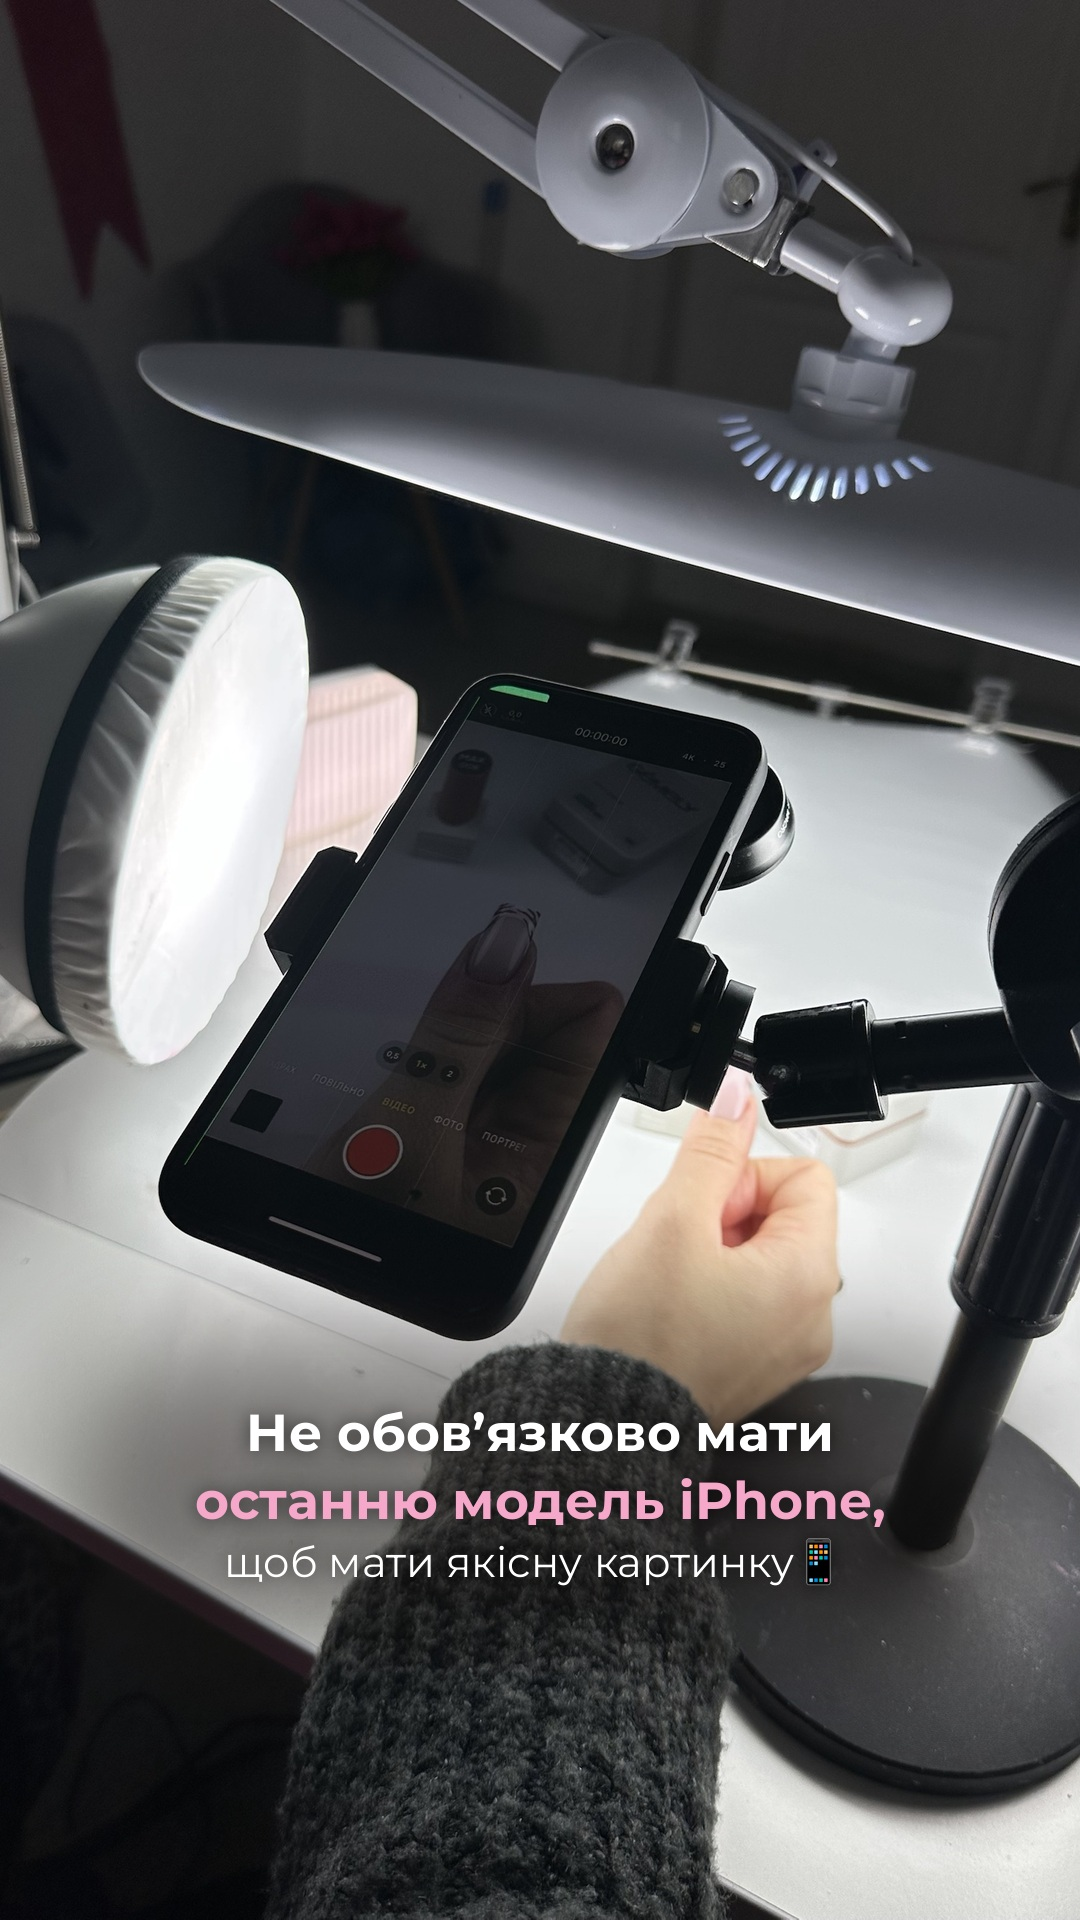
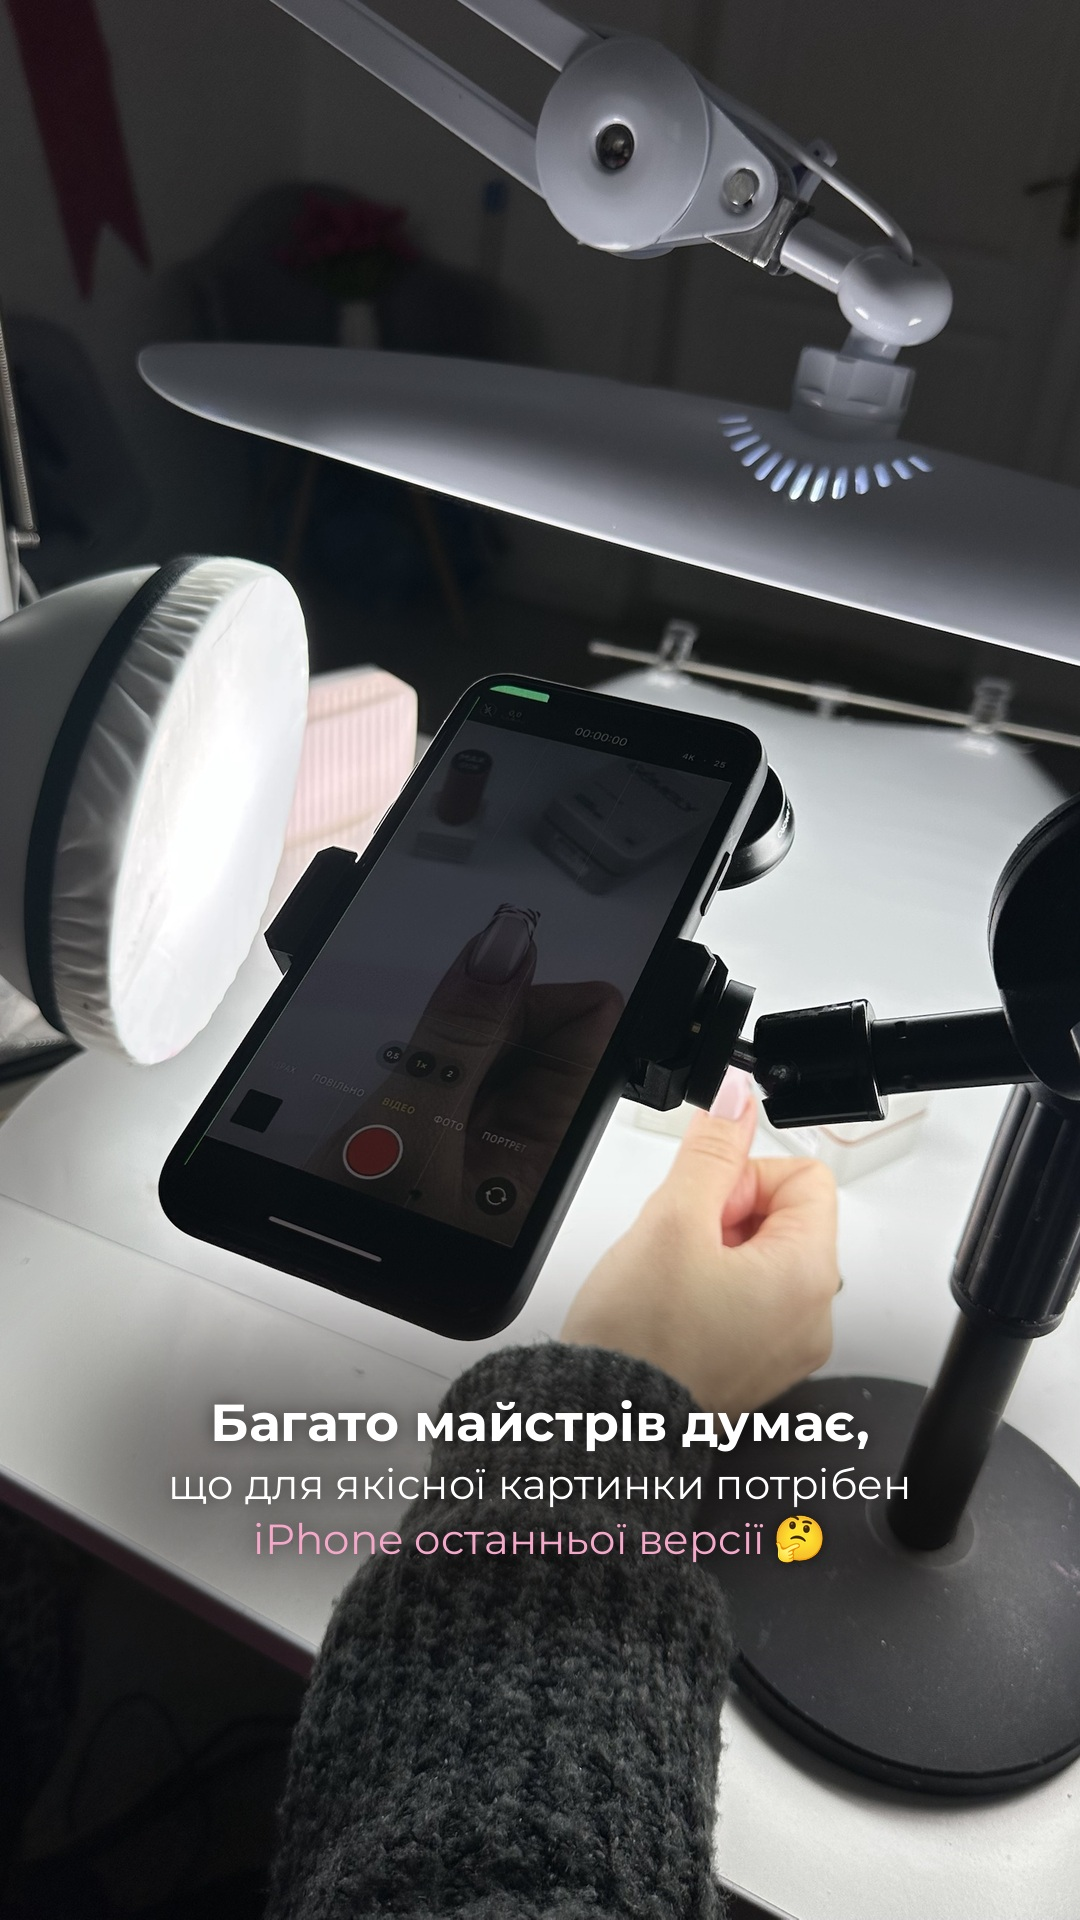
Сторітел налаштування камери: історія з iPhone 11
Claude-Session: https://claude.ai/code/session_0191xVL2hi5vHUvM1ix6pauC

Changed region(s): [[0.1528, 0.7188, 0.825, 0.8438]]

diff --git a/stories/nalashtuvannia/build.py b/stories/nalashtuvannia/build.py
@@ -14,9 +14,9 @@ def block(im,y,lines,fill):
     return im
 # 1
 BOLD=F(52,700); REG=F(42,400)
-im=block(fit(f'{U}/44955f0d-image.jpg'),1400,[(1,'Не обов’язково мати',None),(1,'*останню модель iPhone*,',None),(0,'щоб мати якісну картинку','📱')],140); sv(im,1)
+im=block(fit(f'{U}/44955f0d-image.jpg'),1390,[(1,'Багато майстрів думає,',None),(0,'що для якісної картинки потрібен',None),(0,'*iPhone останньої версії*','🤔')],140); sv(im,1)
 # 2
-im=block(fit(f'{U}/6aa01f98-image.jpg'),230,[(1,'Щоб картинка була якісною,',None),(1,'спочатку *перевір налаштування*',None),(0,'камери на своєму телефоні','⚙')],165); sv(im,2)
+im=block(fit(f'{U}/6aa01f98-image.jpg'),210,[(1,'Хоча свої ролики я починала',None),(1,'з *iPhone 11*',None),(0,'І що можу сказати?',None),(0,'Навіть з ним можуть вийти круті кадри,',None),(0,'якщо знати правильні',None),(0,'налаштування камери','✨')],165); sv(im,2)
 # 3 blurred cover + card
 cv=Image.open(f'{R}/cover/oblozhka_nalashtuvannia.jpg').convert('RGB')
 bg=cv.filter(ImageFilter.GaussianBlur(45)); bg=Image.blend(bg,Image.new('RGB',(1080,1920),(28,22,24)),0.55)
@@ -27,5 +27,5 @@ m=Image.new('L',(w,h),0); ImageDraw.Draw(m).rounded_rectangle((0,0,w-1,h-1),radi
 BOLD=F(50,700); REG=F(42,400)
 im,y=tx(bg,250,'А які саме *налаштування*','',cx=540,mw=1000,align='c',shade=0)
 im,y=tx(im,y-8,'мають бути —','',cx=540,mw=1000,align='c',shade=0)
-im,y=tx(im,y+6,'','дивись у новому рілс','👇',cx=540,mw=1000,align='c',shade=0)
+im,y=tx(im,y+6,'','показую в своєму рілс','👇',cx=540,mw=1000,align='c',shade=0)
 sv(im,3); print('ok')
